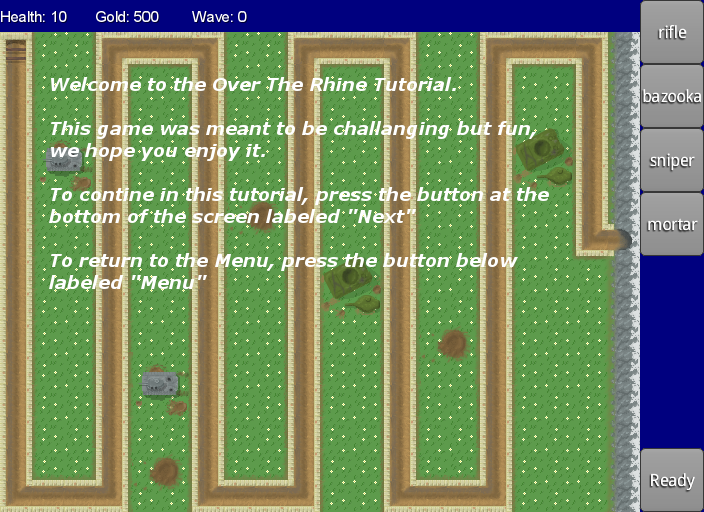
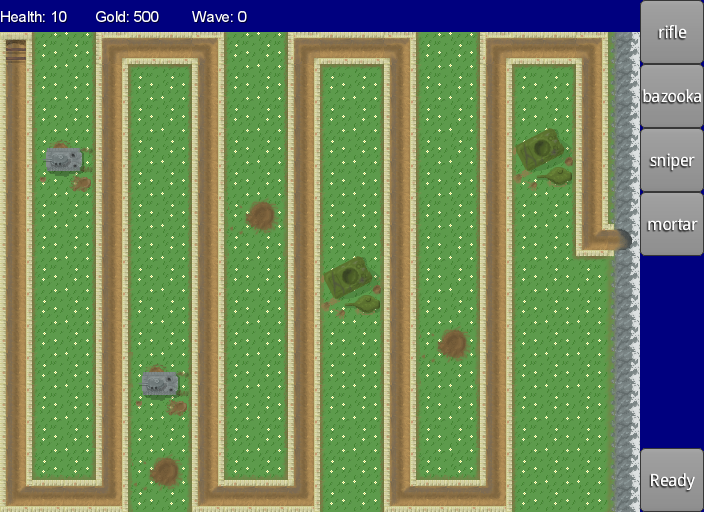
Work on the tutorial.

diff --git a/project/core/src/com/mygdx/states/Tutorial.java b/project/core/src/com/mygdx/states/Tutorial.java
@@ -6,6 +6,7 @@ import com.badlogic.gdx.graphics.OrthographicCamera;
 import com.badlogic.gdx.graphics.Texture;
 import com.badlogic.gdx.scenes.scene2d.ui.Dialog;
 import com.badlogic.gdx.scenes.scene2d.utils.Align;
+import com.mygdx.entities.Actor;
 import com.mygdx.handlers.GameStateManager;
 import com.mygdx.UI.MyStage;
 import com.badlogic.gdx.Gdx;
@@ -29,22 +30,32 @@ public class Tutorial extends GameState {
     private TextButton Return;
     private TextButton textfield;
     Skin skin;
-    private Texture Tutorial1 = new Texture("Tutorial1.png");
     int text = 0;
     private String[] tutorialtext = {" Welcome to the Over The Rhine Tutorial.\n Thank you for playing our game. \n To continue, click this dialogue box...\n To return to the Menu, click the Menu button.\n",
-                                     "Test2\n"};
-    /*private Texture Tutorial2 = new Texture("Tutorial2.png");
+                                     " The highlighted area shows your health, gold,\n and the current enemy wave.\n The path that is highlighted represents the path\n the enemies will take.",
+                                     " This is a Rifle Squad Bunker, it costs 100 gold.\n The blue circle represents the range.\n The blue square represents the bounds.\n You cannot place any tower on a path.\n",
+                                     " The Rile squad has a low attack power, but high\n attack speed. It is ideal for dealing \n with the normal enemy type.\n",
+                                     " This is a Bazooka Squad Bunker, it costs 150 gold.\n It has a high attack power, but a slower attack speed\n when compared to the rifle tower.\n It is ideal for dealing with the Tiger Tank.",
+                                     " This is the Sniper Bunker, it costs 350 gold.\n It has a higher attack compared to the rifle and\n a faster attack speed when compared to the bazooka.\n It is ideal for dealing with the Fast enemies.",
+                                     " This is the Mortar Team Bunker, it costs 350 gold.\n It has an attack speed between the Sniper and the\n bazooka. It's damage is slightly higher than the rifle.\n It can slow the enemies greatly. Ideal for all enemies."
+                                    };
+    Actor background;
+    private Texture Tutorial1 = new Texture("Tutorial1.png");
+    private Texture Tutorial2 = new Texture("Tutorial2.png");
     private Texture Tutorial3 = new Texture("Tutorial3.png");
     private Texture Tutorial4 = new Texture("Tutorial4.png");
     private Texture Tutorial5 = new Texture("Tutorial5.png");
     private Texture Tutorial6 = new Texture("Tutorial6.png");
-    private Texture Tutorial7 = new Texture("Tutorial7.png");
+    private Texture[] texturearray = {Tutorial1, Tutorial2, Tutorial3, Tutorial3, Tutorial4, Tutorial5, Tutorial6};
+    /*private Texture Tutorial7 = new Texture("Tutorial7.png");
     */
     public Tutorial(final GameStateManager gameStateManager, NetworkManager networkManager){
         super(gameStateManager,networkManager);
         stage = new MyStage();
         Gdx.input.setInputProcessor(stage);
-         skin = new Skin(Gdx.files.internal("UiData/uiskin.json"));
+        skin = new Skin(Gdx.files.internal("UiData/uiskin.json"));
+        background = new Actor(Tutorial1, 0, 0);
+        stage.addActor(background);
 
         /* Menu Music */
         AssetManager.loadMusic(1);
@@ -71,6 +82,7 @@ public class Tutorial extends GameState {
             text++;
             textfield.setText(tutorialtext[text]);
             textfield.setChecked(false);
+            background.setSprite(texturearray[text]);
         }
         if(Return.isChecked()){
             gameStateManager.setState(GameStateManager.MENU, 0);

diff --git a/project/core/src/com/mygdx/entities/Actor.java b/project/core/src/com/mygdx/entities/Actor.java
@@ -23,4 +23,7 @@ public class Actor extends Entity
     {
         batch.draw(sprite, sprite.getX(), sprite.getY());
     }
+
+    public void setSprite(Texture texture){this.sprite = new Sprite(texture);}
+
 }
